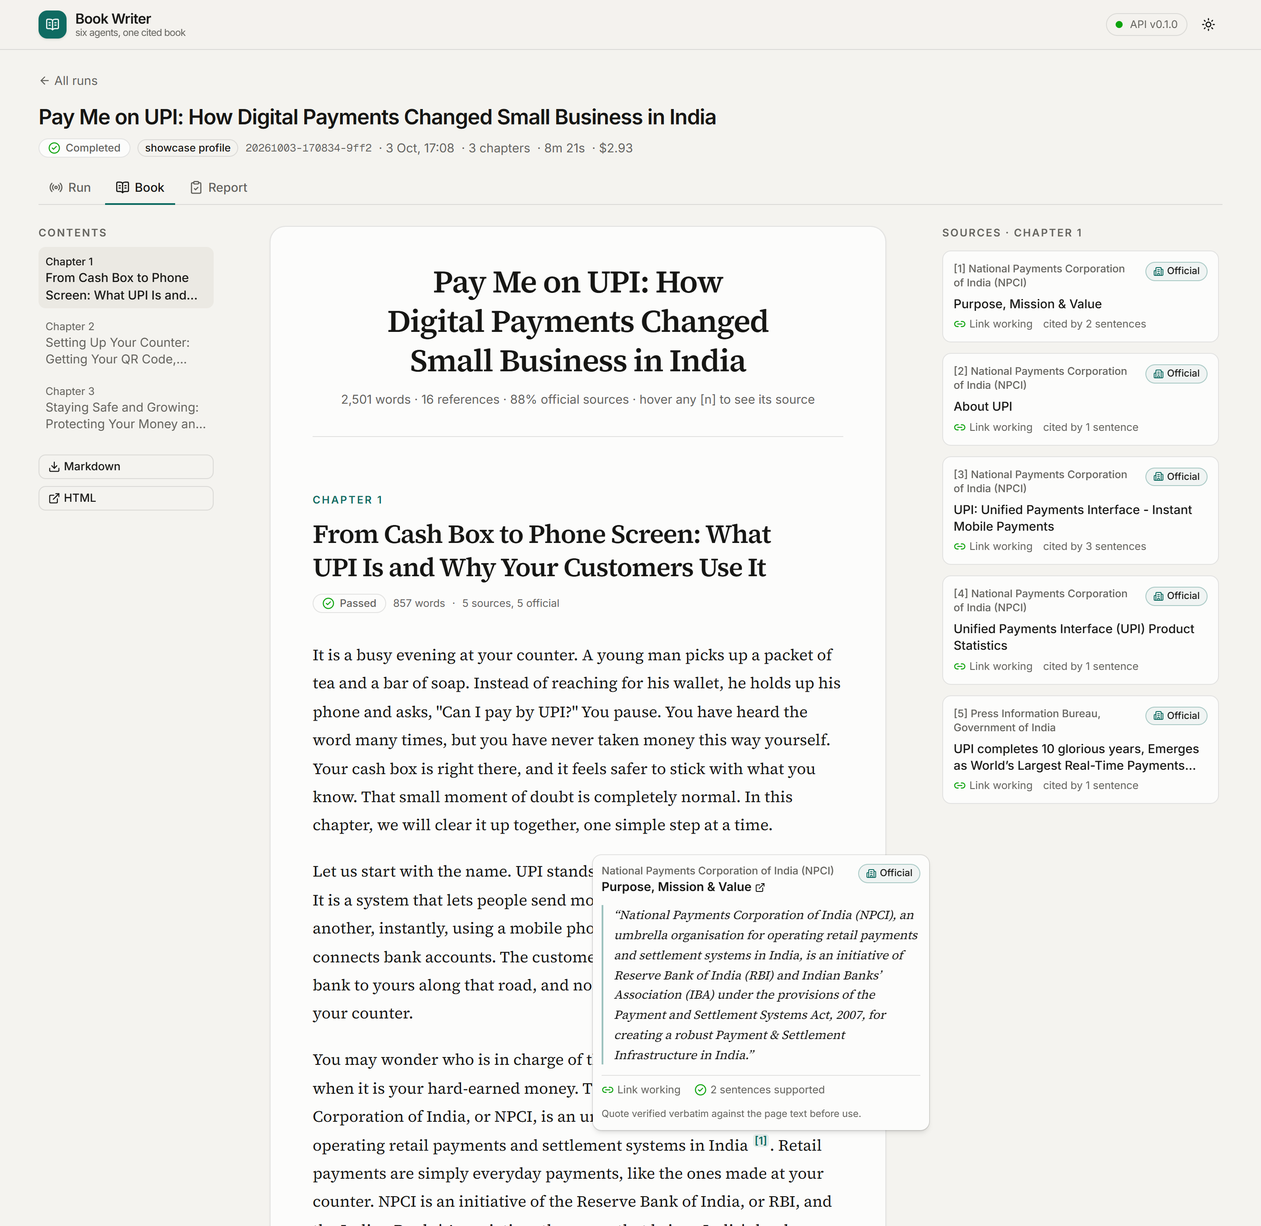
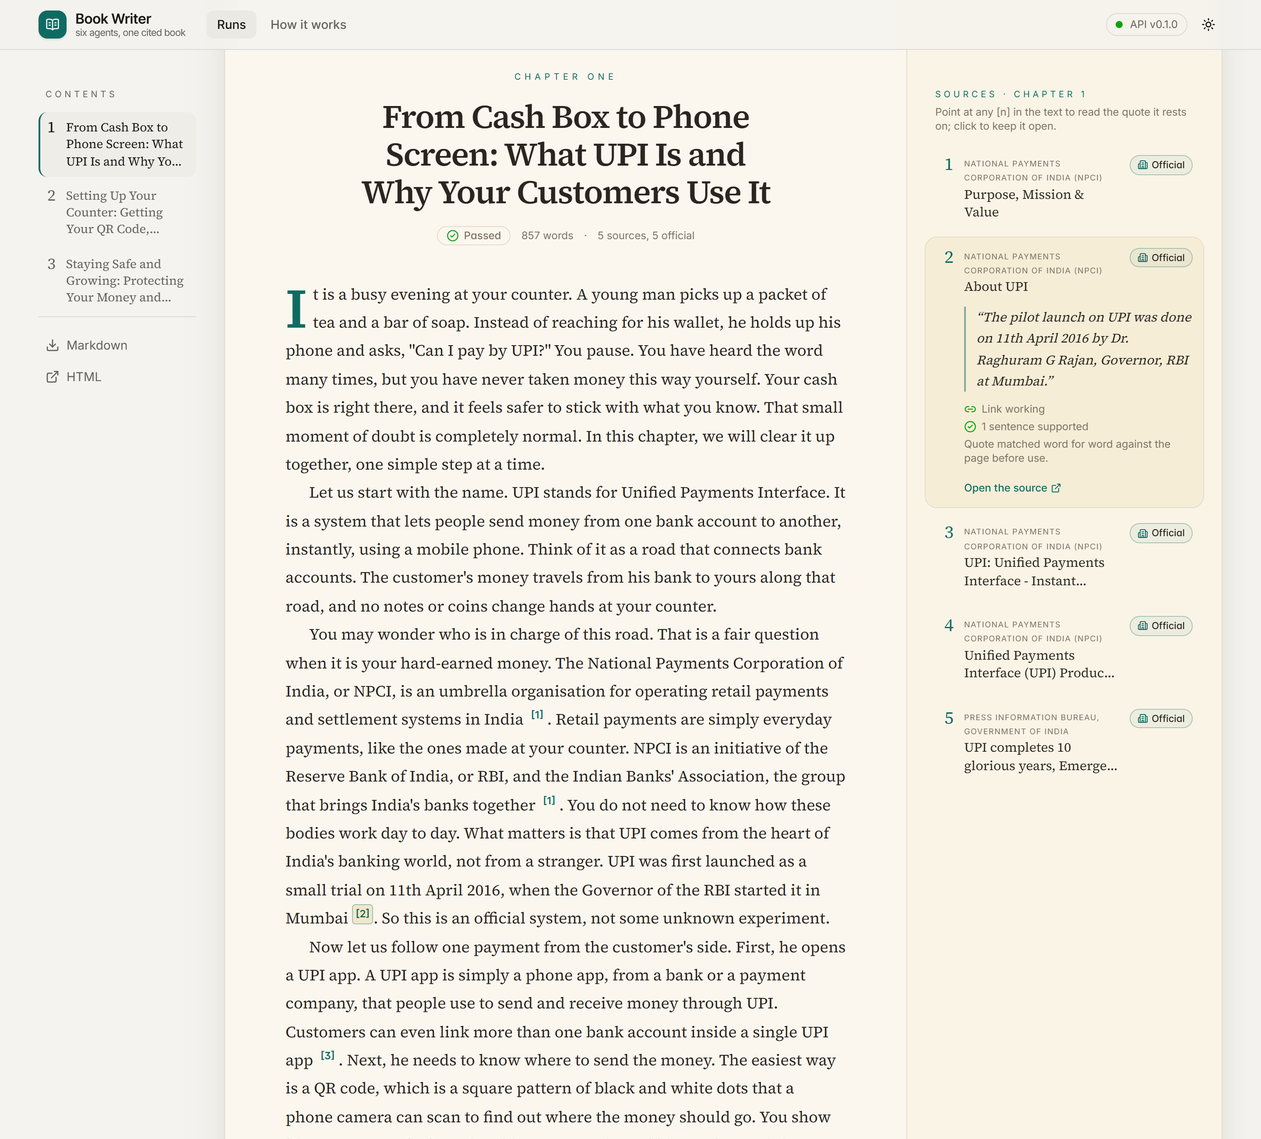
docs: README opening for anyone, new pictures and screenshots
A plain 'What is this?' opening; 'How a book gets made' and the system
diagram, drawn by the dashboard's /explain page, in light and dark; new
screenshots of every page. The generated agent graph now lives in
docs/architecture.md only, still checked by a test. PLAN.md records M6
and the outline-review run; DEV_COST.md regenerated.

diff --git a/backend/tests/test_repo.py b/backend/tests/test_repo.py
@@ -5,8 +5,6 @@ from __future__ import annotations
 import json
 from pathlib import Path
 
-import pytest
-
 from bookwriter.graph import GRAPH_END, GRAPH_START, mermaid_block, sync_diagram
 from bookwriter.models import FinalChapter
 from bookwriter.render import book_markdown
@@ -29,10 +27,9 @@ def test_committed_sample_book_passes_the_scorecard(cfg):
     assert book == book_markdown(report["outline"]["book_title"], chapters)
 
 
-@pytest.mark.parametrize("doc", ["README.md", "docs/architecture.md"])
-def test_agent_graph_diagrams_are_generated_from_the_graph(doc):
-    text = (REPO / doc).read_text(encoding="utf-8")
-    assert mermaid_block() in text, f"Regenerate it: uv run bookwriter graph --readme ../{doc}"
+def test_agent_graph_diagram_is_generated_from_the_graph():
+    text = (REPO / "docs" / "architecture.md").read_text(encoding="utf-8")
+    assert mermaid_block() in text, "Regenerate it: uv run bookwriter graph --readme ../docs/architecture.md"
 
 
 def test_sync_diagram_replaces_only_the_marked_block():

diff --git a/README.md b/README.md
@@ -2,29 +2,42 @@
 
 [![CI](https://github.com/shikharsumantech14/book-writer/actions/workflows/ci.yml/badge.svg)](https://github.com/shikharsumantech14/book-writer/actions/workflows/ci.yml)
 
-Take-home assignment for the Patel Group AI Engineer role. Six agents (Planner, Researcher, Writer, Editor,
-Fact-checker and Chief Editor) research and write *Pay Me on UPI: How Digital Payments Changed Small Business
-in India*, a three-chapter book for first-time shop owners. Every fact, figure and date carries a numbered
-citation to a real page that the system read and verified itself.
+**What is this?** A team of AI agents that writes a short book on its own, with every fact cited. You give it a
+brief: a topic, a reader and a length. It plans the chapters, searches the web for facts, writes, and then reviews
+its own work the way an editor and a fact-checker would, sending chapters back until they pass. Every fact in the
+finished book links to the web page it came from, and the system read that page and checked the quote itself.
 
-**Read the book:** [docs/sample-output/book.md](docs/sample-output/book.md) (or the
+It was built as the take-home assignment for the Patel Group AI Engineer role. The brief asks for a three-chapter
+book for first-time shop owners: *Pay Me on UPI: How Digital Payments Changed Small Business in India*.
+
+**Read the book it wrote:** [docs/sample-output/book.md](docs/sample-output/book.md) (or the
 [HTML version](docs/sample-output/book.html)). It comes from one full run on the `showcase` profile: 2,501 words,
 16 references, 29 of 29 checked claims supported by their sources, every link working, and the system's own
 scorecard passed. Chapters 2 and 3 carry one warning each: the Editor's last style notes were not applied,
 because its send-back budget ran out. The run's [event log](docs/sample-output/events.jsonl) and
 [report](docs/sample-output/run_report.json) are committed next to it.
 
-**Status:** complete: agent engine, CLI, research MCP server, HTTP API with live streaming, dashboard, tests
-and CI (milestones M1 to M4). The design, milestones and cost plan are in [docs/PLAN.md](docs/PLAN.md); the
-architecture is in [docs/architecture.md](docs/architecture.md).
+<picture>
+  <source media="(prefers-color-scheme: dark)" srcset="docs/how-it-works-dark.png">
+  <img alt="How a book gets made: the brief goes to the Planner, an optional outline review, then each chapter goes through the Researcher, Writer, Lint, Editor, Fact-checker and Safety net, with reviewers sending work back; the Chief Editor and the Assembler finish the book" src="docs/how-it-works.png">
+</picture>
 
-![The live run view: agents light up per chapter while they work; the Editor's send-back to the Writer animates its loop](docs/screenshots/live-run.png)
+**Status:** complete: agent engine, CLI, research MCP server, HTTP API with live streaming, dashboard, tests and
+CI (milestones M1 to M4), then a redesign of the dashboard and these pictures (M6). The design, milestones and cost
+plan are in [docs/PLAN.md](docs/PLAN.md); the architecture is in [docs/architecture.md](docs/architecture.md).
 
-| Book reader: hover a citation for its verified quote | Report: the scorecard against the brief |
+## See it work
+
+![The Run page mid-replay: a dark control room with spend, calls and progress at the top; three chapters moving through their stations on the assembly line, with counted loops where reviewers sent work back; a timeline of who worked when; and the activity feed](docs/screenshots/live-run.png)
+
+The **Run** page streams a run live, or replays a recorded one: each chapter moves along its lane, the station at
+work glows, and every time a reviewer sends work back a loop is drawn and counted.
+
+| **Book:** point at any [n] and its source opens in the margin, with the quote checked on that page | **Report:** the verdict, the key numbers, every rule of the brief per chapter, and the Editor's scores |
 |---|---|
-| ![Book reader](docs/screenshots/book.png) | ![Scorecard](docs/screenshots/report-scorecard.png) |
-| **Report: cost per agent, model and chapter** | **Runs, with the cost of every run** |
-| ![Cost](docs/screenshots/report-cost.png) | ![Runs](docs/screenshots/runs.png) |
+| ![The book page: a printed-page layout with a drop cap, and the source of citation 2 open in the margin with its verified quote](docs/screenshots/book.png) | ![The report dashboard: verdict banner, key numbers, scorecard matrix and editor score heatmap](docs/screenshots/report.png) |
+| **Report, cost and effort:** cost per agent with its model, spend over time, rounds per chapter, tokens | **Runs:** the latest book and every run with its cost |
+| ![Cost by agent, spend over time, effort by chapter and token mix, in dark mode](docs/screenshots/report-cost.png) | ![The runs page: a one-line explanation, the latest book as a cover with its numbers, and the run history](docs/screenshots/runs.png) |
 
 <details>
 <summary>The same run in the terminal</summary>
@@ -83,7 +96,10 @@ run replayed, without any API key.
 
 ## How it works
 
-![System architecture](docs/architecture.png)
+<picture>
+  <source media="(prefers-color-scheme: dark)" srcset="docs/architecture-dark.png">
+  <img alt="How the system fits together: the dashboard, the command line and Claude Desktop come in at the top; the HTTP API and the agent engine in the middle; Claude, the run folders, the research tools and the web underneath" src="docs/architecture.png">
+</picture>
 
 The agents never talk to each other directly. Each one reads and writes typed fields on a shared state
 (Pydantic models), and plain Python routers decide where the work goes next. Every review loop has a budget,
@@ -109,57 +125,12 @@ on the fastest. Routing, effort, prices and loop budgets all live in
 
 ### Agent graph
 
-The planner fans out one chapter subgraph per chapter, run in parallel. Dotted arrows are router decisions.
-`outline_review` is human in the loop: when a run asks for it, the graph pauses after the Planner until a
-person approves, edits or rejects the outline, then continues from its checkpoint.
-This diagram is generated from the compiled LangGraph graph (`uv run bookwriter graph`), and CI fails if it
-drifts from the code.
-
-<!-- agent-graph:start -->
-```mermaid
----
-config:
-  flowchart:
-    curve: linear
----
-graph TD;
-	__start__([<p>__start__</p>]):::first
-	planner(planner)
-	outline_review(outline_review)
-	chief_editor(chief_editor)
-	assembler(assembler)
-	__end__([<p>__end__</p>]):::last
-	__start__ --> planner;
-	chapter\3asafety_net --> chief_editor;
-	chief_editor --> assembler;
-	outline_review -.-> chapter\3a__start__;
-	planner --> outline_review;
-	assembler --> __end__;
-	subgraph chapter
-	chapter\3a__start__(<p>__start__</p>)
-	chapter\3aresearcher(researcher)
-	chapter\3awriter(writer)
-	chapter\3alint(lint)
-	chapter\3aeditor(editor)
-	chapter\3afact_checker(fact_checker)
-	chapter\3asafety_net(safety_net)
-	chapter\3a__start__ --> chapter\3aresearcher;
-	chapter\3aeditor -.-> chapter\3afact_checker;
-	chapter\3aeditor -.-> chapter\3awriter;
-	chapter\3afact_checker -.-> chapter\3aresearcher;
-	chapter\3afact_checker -.-> chapter\3asafety_net;
-	chapter\3afact_checker -.-> chapter\3awriter;
-	chapter\3alint -.-> chapter\3aeditor;
-	chapter\3alint -.-> chapter\3afact_checker;
-	chapter\3alint -.-> chapter\3awriter;
-	chapter\3aresearcher --> chapter\3awriter;
-	chapter\3awriter --> chapter\3alint;
-	end
-	classDef default fill:#f2f0ff,line-height:1.2
-	classDef first fill-opacity:0
-	classDef last fill:#bfb6fc
-```
-<!-- agent-graph:end -->
+The chapter workshop in the picture at the top is the real graph: the Planner fans out one chapter subgraph per
+chapter, run in parallel, and plain-Python routers decide every send-back. `outline_review` is human in the loop:
+when a run asks for it, the graph pauses after the Planner until a person approves, edits or rejects the outline,
+then continues from its checkpoint. The exact graph, generated from the compiled LangGraph graph
+(`uv run bookwriter graph`), is in [docs/architecture.md](docs/architecture.md#agent-graph); CI fails if it drifts
+from the code.
 
 ### Loop budgets
 
@@ -239,15 +210,17 @@ sample, without spending anything. One run at a time: a second `POST /runs` whil
 
 ## Dashboard
 
-A Next.js + shadcn/ui app in [`frontend/`](frontend/) that reads everything from the API. Each agent has one
-colour and one icon, used the same way everywhere ([design system](frontend/DESIGN.md)).
+A Next.js + shadcn/ui app in [`frontend/`](frontend/) that reads everything from the API. Each page has the
+character of its job, and each agent keeps one colour and one icon everywhere
+([design system](frontend/DESIGN.md)).
 
-| Screen | What it shows |
+| Page | What it shows |
 |---|---|
-| Runs | Run history with status, scorecard, cost and time; New run, with routing per agent and a cost estimate from measured runs |
-| Run | The agent graph from `GET /graph`: agents light up as they work, with chips showing which chapters are at each step, and a send-back animates its loop in the reviewer's colour. Chapter lanes with round counters, an activity feed, a cost and token ticker. Live while a run is going; Replay for a finished one. The outline review dialog appears here when a run waits for it |
-| Book | The book in a serif reading layout. Hover any `[n]` for the source, the quote verified on that page, the link status and the Fact-checker's verdict; a sources panel per chapter |
-| Report | The scorecard against the brief, chapter by chapter; cost per agent, model and chapter with token kinds; the Planner's outline, style guide and glossary |
+| Runs | What the product is in one line, the latest book as a cover with its numbers, and every run with its status, scorecard, cost and time. New run starts one, with the model routing per agent and a cost estimate from measured runs |
+| Run | A mission-control console, live or replayed: spend against the cost cap, model calls, tokens and progress; the assembly line, one lane per chapter, where the station at work glows and every send-back draws a counted loop back to the Writer or the Researcher; a timeline of who worked when; a feed filterable by chapter. The outline review dialog appears here when a run waits for it |
+| Book | The book as a printed page: a title page, chapter openers with a drop cap, the takeaway as a pull quote. Point at any `[n]` and its source opens in the margin, with the quote verified on that page, the link status and the Fact-checker's verdict, without covering the text |
+| Report | A data dashboard: the verdict and key numbers; every rule of the brief per chapter; the Editor's scores as a heatmap; fact-check verdicts and source mix per chapter; cost per agent and model, spend over time, rounds per chapter and the token mix. The chapter details, usage tables and the Planner's outline are in two more tabs |
+| How it works | The two pictures in this README. The dashboard draws them, so they always look like the product |
 
 ## Use the research tools from Claude (MCP)
 
@@ -294,12 +267,14 @@ backend/
     estimate.py          pre-run cost estimate from measured runs
   tests/                 unit tests and a fake-LLM end-to-end run (no API cost)
 frontend/                Next.js dashboard (DESIGN.md: the design system)
-  src/app/               routes: runs, run (live/replay), book, report
-  src/components/        agent graph, chapter lanes, feed, book reader, scorecard, cost charts
-  src/lib/               API types, agent identities, the event-stream reducer
+  src/app/               routes: runs, run (live/replay), book, report, explain
+  src/components/        assembly line, timeline and feed; book reader; report dashboard; the explain pictures
+  src/lib/               API types, agent identities, the event-stream reducer, the timeline builder
 docs/
   PLAN.md                the approved design and milestones
-  architecture.md        system and agent-graph diagrams (+ PNG exports)
+  architecture.md        system diagram and the agent graph generated from code
+  how-it-works*.png,     the README pictures, drawn by the dashboard's /explain page
+  architecture*.png
   screenshots/           the dashboard and the terminal, from the sample run
   DEV_COST.md            tokens spent building the project
   sample-output/         the sample book, its event log and its run report
@@ -311,15 +286,21 @@ scripts/dev_usage.py     generates DEV_COST.md
 - **Plan first.** [docs/PLAN.md](docs/PLAN.md) was written and reviewed before any engine code: a second model
   reviewed the first draft (section 0 records what changed and why), and the plan was approved before code was
   written. Deviations are recorded in its status section.
-- **Milestones as commits.** Engine (M1), first push (M1.5), service (M2), dashboard (M3) and polish (M4), each
-  a run of small conventional commits, tagged `m1-engine` to `m4-polish`. The pushed state passed CI at every step.
+- **Milestones as commits.** Engine (M1), first push (M1.5), service (M2), dashboard (M3), polish (M4) and
+  redesign (M6), each a run of small conventional commits, tagged `m1-engine` to `m6-redesign`. The pushed state
+  passed CI at every step.
 - **Cheap runs first.** Every paid run was approved in advance and capped. Three single-chapter `dev` runs and
   one full `dev` book ($3.42 together) found the real bugs before the one `showcase` run ($2.93): a lint rule
   that read "UPI123Pay" as an uncited figure, a sentence splitter that broke on "Dr.", evidence claims that said
   more than their quotes, a Fact-checker stricter than its own instructions, Editor rules that contradicted the
-  Writer's, and a truncated PDF that crashed page reading. Each fix came with a test. Total API spend for the
-  whole project: $6.35.
-- **Measured development cost.** Building this with Claude Code used about $58 of model time at API list prices
+  Writer's, and a truncated PDF that crashed page reading. Each fix came with a test. One more single-chapter run
+  ($0.59) tested outline review end to end. Total API spend for the whole project: $6.94.
+- **A second design pass.** The first dashboard worked but looked like a component kit, and the README diagrams
+  were plain Mermaid. M6 gave each page the character of its job (a console for the run, a printed page for the
+  book, a data dashboard for the report) and replaced the diagrams with pictures the dashboard draws. It was
+  planned and approved first ([PLAN.md section 18](docs/PLAN.md)), then built and checked against recorded runs,
+  at no API cost.
+- **Measured development cost.** Building this with Claude Code used about $85 of model time at API list prices
   (it ran on a subscription, so nothing was charged per token); 99% of those tokens were cheap cache reads.
   Broken down by session and model in [docs/DEV_COST.md](docs/DEV_COST.md), generated from the session
   transcripts.
@@ -337,5 +318,6 @@ cd frontend && npm test && npm run lint && npm run typecheck
 The backend's end-to-end test runs the whole graph with a scripted fake Claude client and canned web pages,
 driving every send-back loop at least once at no API cost; other tests cover lint, routers and stop conditions,
 quote verification, the fetch fallback, the MCP server, the API (including outline review and cancellation),
-the committed sample book and the generated diagrams. The dashboard's tests hold its event reducer to the
-backend's report on the sample run. CI runs all of it, plus a production build of the dashboard, on every push.
+the committed sample book and the generated diagrams. The dashboard's tests hold its event reducer and its
+timeline builder to the backend's report on the sample run. CI runs all of it, plus a production build of the
+dashboard, on every push.

diff --git a/docs/PLAN.md b/docs/PLAN.md
@@ -389,7 +389,7 @@ Cut order if time is short: stretch first, then the Report's cost tab (numbers s
 
 ## 15. Current status
 
-*Updated Saturday 3 October 2026, evening.*
+*Updated Sunday 4 October 2026.*
 
 **M1 (core engine) and M1.5 (first push) are done.**
 - Book graph with `Send` fan-out and the chapter subgraph; plain-Python routers with every stop condition in section 4.4; code safety net; runner recording `events.jsonl` and `run_report.json`; scorecard; `bookwriter run | report | graph | mcp`.
@@ -409,6 +409,21 @@ One deliberate change from section 9: runs and events are not copied into SQLite
 **M3 (dashboard) is done.** Next.js 16 + TypeScript + Tailwind 4 + shadcn/ui (Radix, Nova preset) + React Flow + Recharts in `frontend/`, built and checked against recorded runs only (no API spend). Four screens: Runs (with New run), Run (agent graph from `GET /graph` with live highlighting, chapter lanes, feed, cost ticker, replay, outline-review dialog), Book (serif reader, citation hover cards with the verified quote and fact-check result, sources panel) and Report (scorecard, cost, the Planner's outline). The design system is in `frontend/DESIGN.md`: CSS-variable tokens for light and dark, and an agent palette checked with a colour-blindness validator. CI adds lint, a type-check and a production build for the dashboard. The fifth screen in section 10, a `/design` page, was optional and is left out; DESIGN.md documents the system instead.
 
 **M4 (polish) is done.** Screenshots of every dashboard screen and of the terminal, generated from the sample run (`docs/screenshots/`); `docs/architecture.md` with a system diagram and the agent graph generated from code, both exported as PNG; tests for the research MCP server's tools and for the dashboard's event reducer (held to the backend's report on the sample run), both in CI; a dashboard lockfile that installs on Linux; `bookwriter replay --quiet --svg` and `report --svg`; README with screenshots, architecture and how the project was built; DEV_COST regenerated.
+
+**Outline review tested end to end (4 October).** One single-chapter `dev` run with review switched on: the run
+paused after the Planner, an edited chapter title was resumed from the dashboard and appeared in the book ($0.59).
+It showed the Editor asking for a reference list that code adds later; the Editor's and Planner's prompts now say
+so. Total API spend: $6.94.
+
+**M6 (redesign) is done** (section 18). Each page has the character of its job: the Run page is a dark
+mission-control console with an assembly line (one lane per chapter, stations and loops from `GET /graph`,
+send-backs counted), a timeline built from the event log, a HUD and a filterable feed; the Book page is a printed
+page whose citations open their source in the margin instead of over the text; the Report is a data dashboard
+(KPIs, scorecard matrix, editor-score heatmap, verdict and source bars, cost, spend over time, effort, tokens);
+Runs has a hero and the latest book as a cover. A new `/explain` page draws "How a book gets made" and the system
+diagram, captured as the README's pictures in light and dark. React Flow is gone. README rewritten with a plain
+"What is this?" opening and new screenshots; the generated agent graph now lives in `docs/architecture.md` only,
+still checked by a test. No API spend.
 
 **Next:** M5: submit the repository link through the Google Form and by email.
 
@@ -439,7 +454,7 @@ One deliberate change from section 9: runs and events are not copied into SQLite
 
 ---
 
-## 18. M6: Redesign of the dashboard and the README visuals (proposed, 4 October)
+## 18. M6: Redesign of the dashboard and the README visuals (approved and done, 4 October)
 
 **Why.** The dashboard works but looks like a default component kit, and the agent graph (generic boxes and thin
 lines) does not show what is really happening: three chapters moving through the same stations in parallel, and

diff --git a/docs/DEV_COST.md b/docs/DEV_COST.md
@@ -4,7 +4,7 @@ Tokens spent by Claude Code building this project, measured from the session tra
 
 Why cumulative tokens are much larger than the context window: the model is stateless, so every step re-sends the whole conversation. The context window is the size of one request; the totals below are the sum over all requests. Repeated context is served from the prompt cache at a fraction of the input price (0.05x on Opus 5.5, 0.025x on Fable 5.1).
 
-_Generated 2026-10-03 13:40 UTC · sessions from 2026-10-03T07:11:03.285Z to 2026-10-03T13:40:45.571Z_
+_Generated 2026-10-03 23:05 UTC · sessions from 2026-10-03T07:11:03.285Z to 2026-10-03T23:05:44.819Z_
 
 ## By session
 
@@ -12,16 +12,16 @@ _Generated 2026-10-03 13:40 UTC · sessions from 2026-10-03T07:11:03.285Z to 202
 |---|---:|---:|---:|---:|---:|---:|
 | AI Engineer take-home assignment brief (claude-opus-5-5) | 55 | 110 | 224,854 | 10,536,956 | 97,442 | $5.18 |
 | Assignment plan review and architecture (claude-fable-5-1) | 26 | 652 | 217,814 | 5,172,243 | 73,128 | $7.68 |
-| Patel Group book writer M1 core engine (claude-opus-5-5) | 331 | 662 | 791,040 | 169,976,666 | 431,386 | $46.58 |
-| **Total** | 412 | 1,424 | 1,233,708 | 185,685,865 | 601,956 | **$59.44** |
+| Patel Group book writer M1 core engine (claude-opus-5-5) | 498 | 998 | 2,007,178 | 244,948,580 | 630,550 | $71.64 |
+| **Total** | 579 | 1,760 | 2,449,846 | 260,657,779 | 801,120 | **$84.50** |
 
 ## By model
 
 | Model | Calls | Input | Cache write | Cache read | Output | API-equivalent cost |
 |---|---:|---:|---:|---:|---:|---:|
 | claude-fable-5-1 | 26 | 652 | 217,814 | 5,172,243 | 73,128 | $7.68 |
-| claude-opus-5-5 | 386 | 772 | 1,015,894 | 180,513,622 | 528,828 | $51.76 |
-| **Total** | 412 | 1,424 | 1,233,708 | 185,685,865 | 601,956 | **$59.44** |
+| claude-opus-5-5 | 553 | 1,108 | 2,232,032 | 255,485,536 | 727,992 | $76.82 |
+| **Total** | 579 | 1,760 | 2,449,846 | 260,657,779 | 801,120 | **$84.50** |
 
-Model calls: **412** · Peak context in a single call: **843,282** tokens
-Total tokens processed (sum over all calls): **187,522,953**, of which 99% were cheap cache reads.
+Model calls: **579** · Peak context in a single call: **966,829** tokens
+Total tokens processed (sum over all calls): **263,910,505**, of which 99% were cheap cache reads.

diff --git a/docs/architecture.md b/docs/architecture.md
@@ -1,6 +1,16 @@
 # Architecture
 
-![System architecture](architecture.png)
+<picture>
+  <source media="(prefers-color-scheme: dark)" srcset="architecture-dark.png">
+  <img alt="How the system fits together" src="architecture.png">
+</picture>
+
+<picture>
+  <source media="(prefers-color-scheme: dark)" srcset="how-it-works-dark.png">
+  <img alt="How a book gets made" src="how-it-works.png">
+</picture>
+
+Both pictures are drawn by the dashboard's `/explain` page. The diagrams below are their exact, text versions.
 
 ## System
 
@@ -49,7 +59,7 @@ flowchart TB
 | LLM layer | `llm.py`, `pricing.py` | The one place that calls Claude: routing per role, structured outputs, the tool loop, prompt caching, metering and the cost cap |
 | Runner and store | `runner.py`, `store.py`, `events.py` | Runs a book, records every event, writes the report; a run is its folder |
 | HTTP API | `api/app.py`, `api/runs.py` | Starts, follows, reviews and cancels runs; streams events; serves outputs, the graph, config and estimates |
-| Dashboard | `frontend/` | Runs, live run and replay, book reader, report |
+| Dashboard | `frontend/` | Runs; the run as a mission-control console, live or replayed; the book reader; the report dashboard; the How it works page |
 
 ## Agent graph
 
